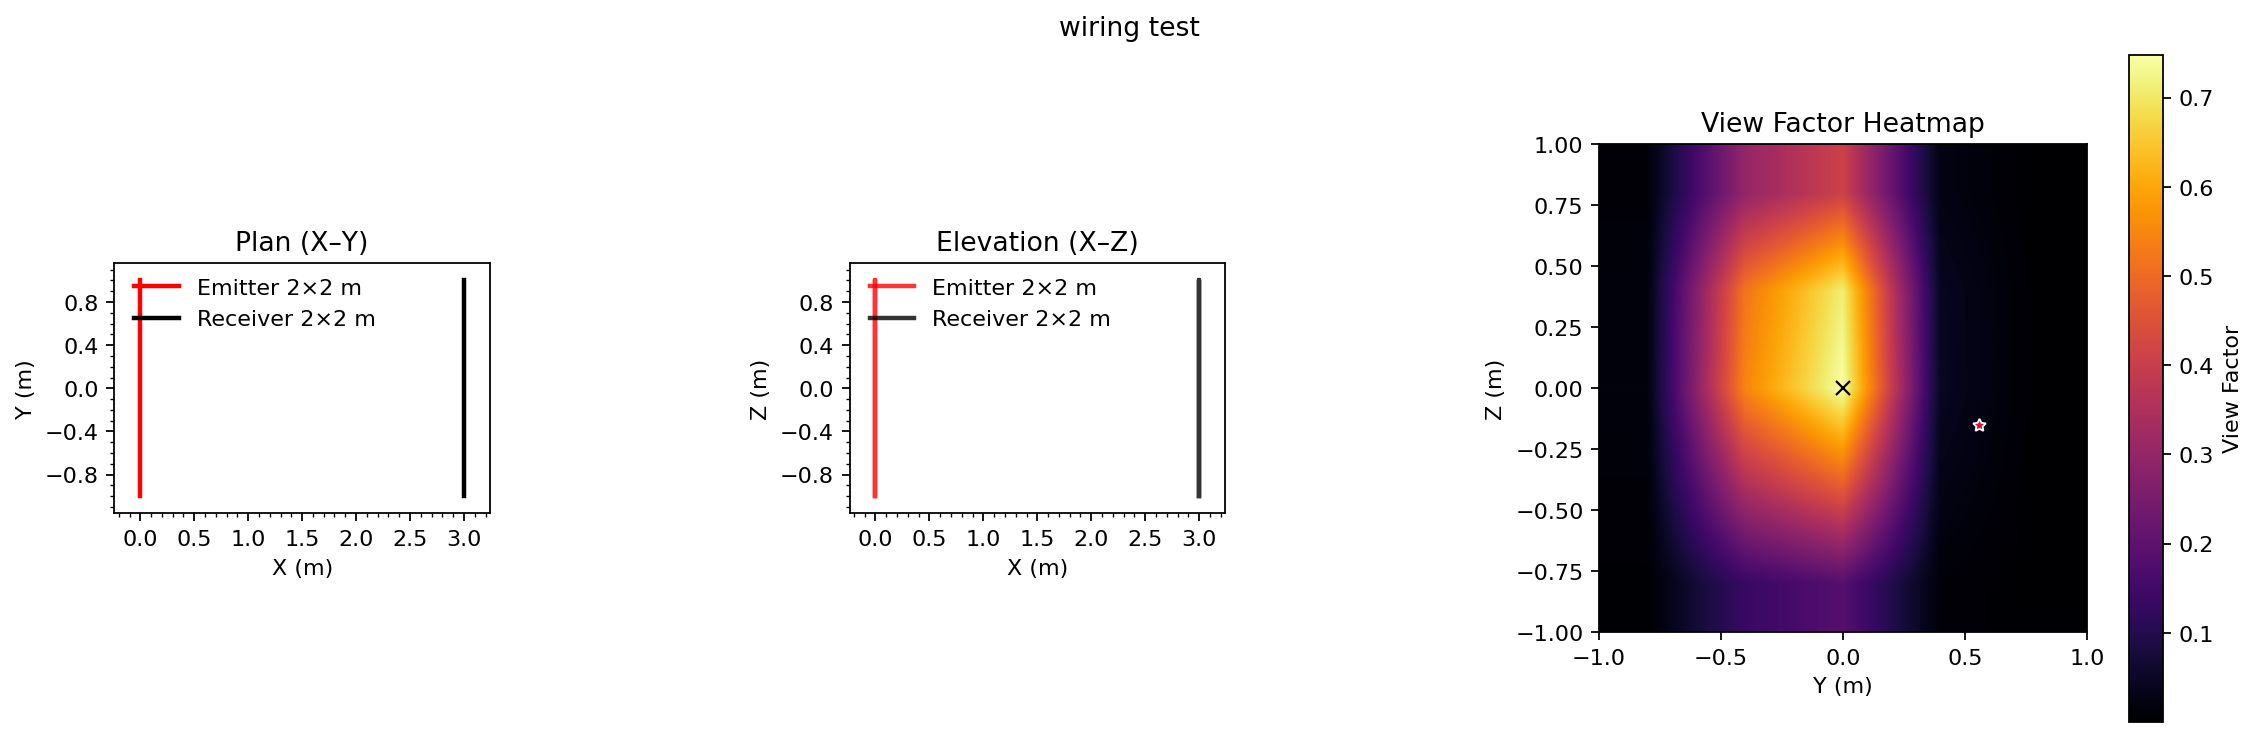
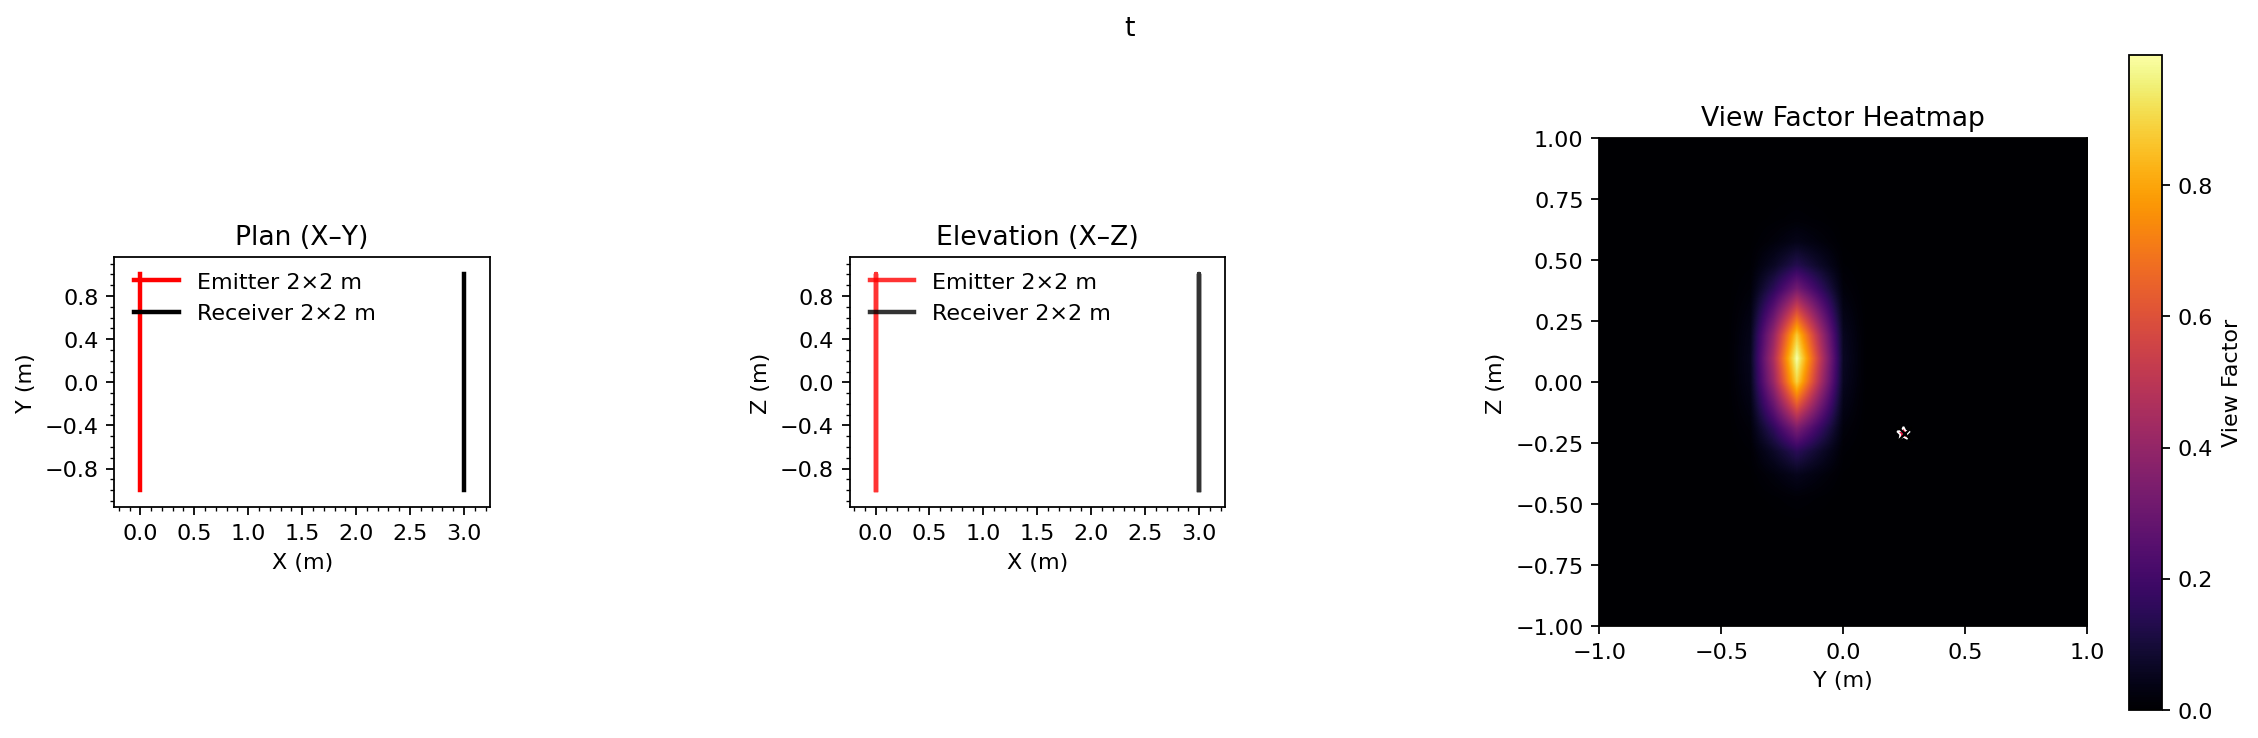
feat(heatmap): default adaptive marker; optional legend; attach marker meta for tests

diff --git a/src/viz/plots.py b/src/viz/plots.py
@@ -147,7 +147,7 @@ def _heatmap(ax, Y, Z, F, ypk, zpk, title="View Factor Heatmap"):
 
 def plot_geometry_and_heatmap(*, result, eval_mode, method, setback, out_png, return_fig: bool=False,
                               vf_field=None, vf_grid=None, prefer_eval_field: bool=False, heatmap_interp: str="bilinear",
-                              marker_mode: str="both", adaptive_peak_yz=None, subcell_fit: bool=True, title: str | None=None,
+                              marker_mode: str="adaptive", adaptive_peak_yz=None, subcell_fit: bool=True, title: str | None=None,
                               debug_plots: bool=False):
     """
     Draw Plan (X–Y), Elevation (X–Z) wireframes (Emitter red, Receiver black) and the Y–Z heatmap.
@@ -349,6 +349,7 @@ def plot_geometry_and_heatmap(*, result, eval_mode, method, setback, out_png, re
                 y_star, z_star = float(gy[ii]), float(gz[jj])
             ax_hm.plot([y_star], [z_star], marker=(5, 1, 0), markersize=6, markeredgewidth=0.8,
                        color="crimson", markeredgecolor="white", linestyle="None", zorder=10)
+            y_grid, z_grid = y_star, z_star
         if show_adapt:
             ax_hm.plot([ypk], [zpk], marker="x", markersize=6, markeredgewidth=1.0,
                        color="white", markeredgecolor="black", linestyle="None", zorder=11)
@@ -363,6 +364,24 @@ def plot_geometry_and_heatmap(*, result, eval_mode, method, setback, out_png, re
                 in_ = int(np.argmin(np.abs(gz - zpk)))
                 d = float(np.hypot(ypk - gy[jn], zpk - gz[in_]))
                 print(f"[diag] grid Δy≈{dy:.3f} Δz≈{dz:.3f} | dist_to_nearest_node≈{d:.3f} m")
+        # Attach meta for tests
+        placed_grid = None
+        if show_grid:
+            try:
+                if (y_grid is not None) and np.isfinite(y_grid) and np.isfinite(z_grid):
+                    placed_grid = (float(y_grid), float(z_grid))
+            except Exception:
+                placed_grid = None
+        placed_adaptive = None
+        if show_adapt and np.isfinite(ypk) and np.isfinite(zpk):
+            placed_adaptive = (float(ypk), float(zpk))
+        try:
+            fig._vf_plot_meta = {
+                "markers": {"grid": placed_grid, "adaptive": placed_adaptive},
+                "field_shape": None if vf_field is None else tuple(np.asarray(vf_field).shape),
+            }
+        except Exception:
+            pass
     except Exception:
         pass
     ax_hm.set_title(heatmap_title)

diff --git a/tests/test_heatmap_marker_default_adaptive.py b/tests/test_heatmap_marker_default_adaptive.py
@@ -1,0 +1,28 @@
+import numpy as np
+import matplotlib
+matplotlib.use("Agg")
+from src.viz.plots import plot_geometry_and_heatmap
+
+
+def test_default_marker_is_adaptive_only():
+    geom = {
+        "xy": {"emitter": np.zeros((2,2)), "receiver": np.zeros((2,2))},
+        "corners3d": {"emitter": np.zeros((4,3)), "receiver": np.zeros((4,3))},
+    }
+    gy = np.linspace(-2.55, 2.55, 21)
+    gz = np.linspace(-1.05, 1.05, 21)
+    Y, Z = np.meshgrid(gy, gz, indexing="ij")
+    F = np.exp(-((Y + 0.25) ** 2 + (Z - 0.0) ** 2) / (0.3 ** 2))
+    fig, _ = plot_geometry_and_heatmap(
+        result={"We": 2.0, "He": 2.0, "Wr": 2.0, "Hr": 2.0, "rotate_axis": "z", "rotate_target": "emitter", "angle_pivot": "toe", "angle": 0.0},
+        eval_mode="grid", method="adaptive", setback=3.0, out_png="ignore.png", return_fig=True,
+        vf_field=F, vf_grid={"y": gy, "z": gz}, adaptive_peak_yz=(-0.255, 0.0),
+        # marker_mode omitted -> defaults to adaptive
+        title="t",
+    )
+    meta = getattr(fig, "_vf_plot_meta", {})
+    placed = meta.get("markers", {})
+    assert placed.get("adaptive") is not None
+    assert placed.get("grid") is None
+
+

diff --git a/tests/test_heatmap_marker_both_explicit.py b/tests/test_heatmap_marker_both_explicit.py
@@ -1,0 +1,27 @@
+import numpy as np
+import matplotlib
+matplotlib.use("Agg")
+from src.viz.plots import plot_geometry_and_heatmap
+
+
+def test_both_markers_when_requested():
+    geom = {
+        "xy": {"emitter": np.zeros((2,2)), "receiver": np.zeros((2,2))},
+        "corners3d": {"emitter": np.zeros((4,3)), "receiver": np.zeros((4,3))},
+    }
+    gy = np.linspace(-2.55, 2.55, 21)
+    gz = np.linspace(-1.05, 1.05, 21)
+    Y, Z = np.meshgrid(gy, gz, indexing="ij")
+    F = np.exp(-((Y + 0.50) ** 2 + (Z - 0.10) ** 2) / (0.3 ** 2))
+    fig, _ = plot_geometry_and_heatmap(
+        result={"We": 2.0, "He": 2.0, "Wr": 2.0, "Hr": 2.0, "rotate_axis": "z", "rotate_target": "emitter", "angle_pivot": "toe", "angle": 0.0},
+        eval_mode="grid", method="adaptive", setback=3.0, out_png="ignore.png", return_fig=True,
+        vf_field=F, vf_grid={"y": gy, "z": gz}, adaptive_peak_yz=(-0.52, 0.08), prefer_eval_field=True,
+        marker_mode="both", title="t",
+    )
+    meta = getattr(fig, "_vf_plot_meta", {})
+    placed = meta.get("markers", {})
+    assert placed.get("adaptive") is not None
+    assert placed.get("grid") is not None
+
+

diff --git a/src/cli_parser.py b/src/cli_parser.py
@@ -354,7 +354,7 @@ Default assumptions:
     peak_group.add_argument(
         '--heatmap-marker',
         choices=['adaptive', 'grid', 'both'],
-        default='both',
+        default='adaptive',
         help='Heatmap marker mode: adaptive peak, grid argmax, or both'
     )
     peak_group.add_argument(
